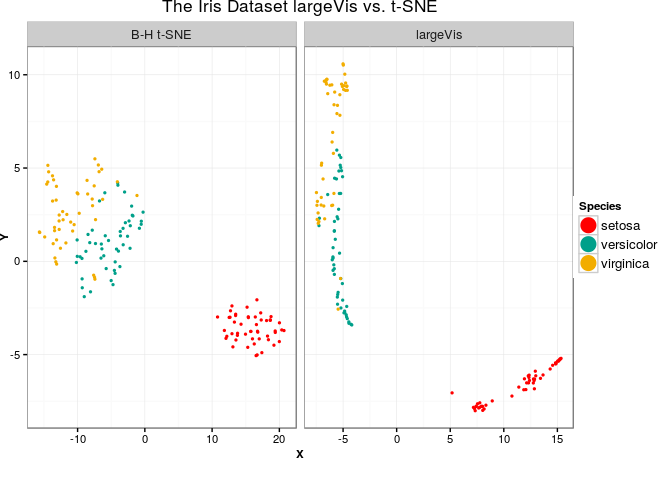
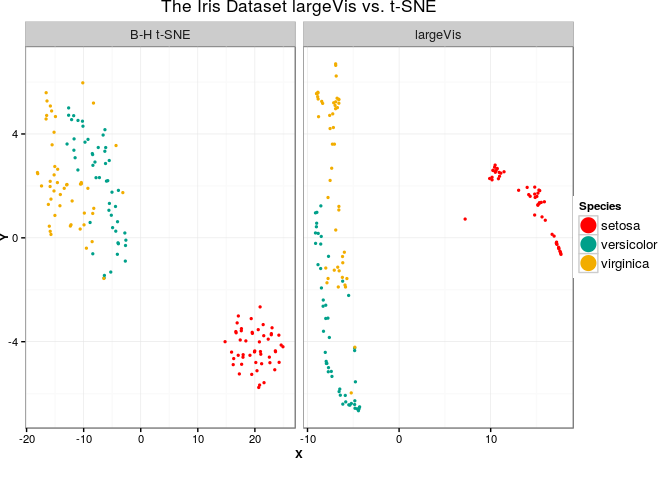
Adding top level files to rbuildignore for travis; changed handling of symmetricization with asymmetrical nodes.

diff --git a/src/pjicalculation.cpp b/src/pjicalculation.cpp
@@ -46,6 +46,8 @@ arma::sp_mat distMatrixTowij(
     if (e > 0 && e % 1000 == 0) callback(1000);
   }
   // Now convert p(j|i) to w_{ij} by symmetrizing.
+  // At this point, if both ij and ji are edges, tehre will be two entries in the data structures.
+  // Loop through the structure, and place each in the lower-triangle of the sparse matrix.
   arma::sp_mat wij = arma::sp_mat(N, N);
   for (int e=0; e < pjis.length(); e++) {
     int newi = is[e], newj = js[e];
@@ -55,10 +57,7 @@ arma::sp_mat distMatrixTowij(
       newj = t;
     }
     if (rowSums[is[e]] == 0) Rcout << "\nWarning: Found node with no neighbors.\n";
-    const double oldw = wij(newi, newj);
-    wij(newi, newj) = (oldw > 0) ?
-    (oldw / 2) + ((pjis[e] / rowSums[is[e]]) / (2 * N )) :
-      (pjis[e] / rowSums[is[e]]) / N;
+    wij(newi, newj) +=  ((pjis[e] / rowSums[is[e]]) / (2 * N));
     if (e > 0 && e % 1000 == 0) callback(1000);
   }
   return wij;
